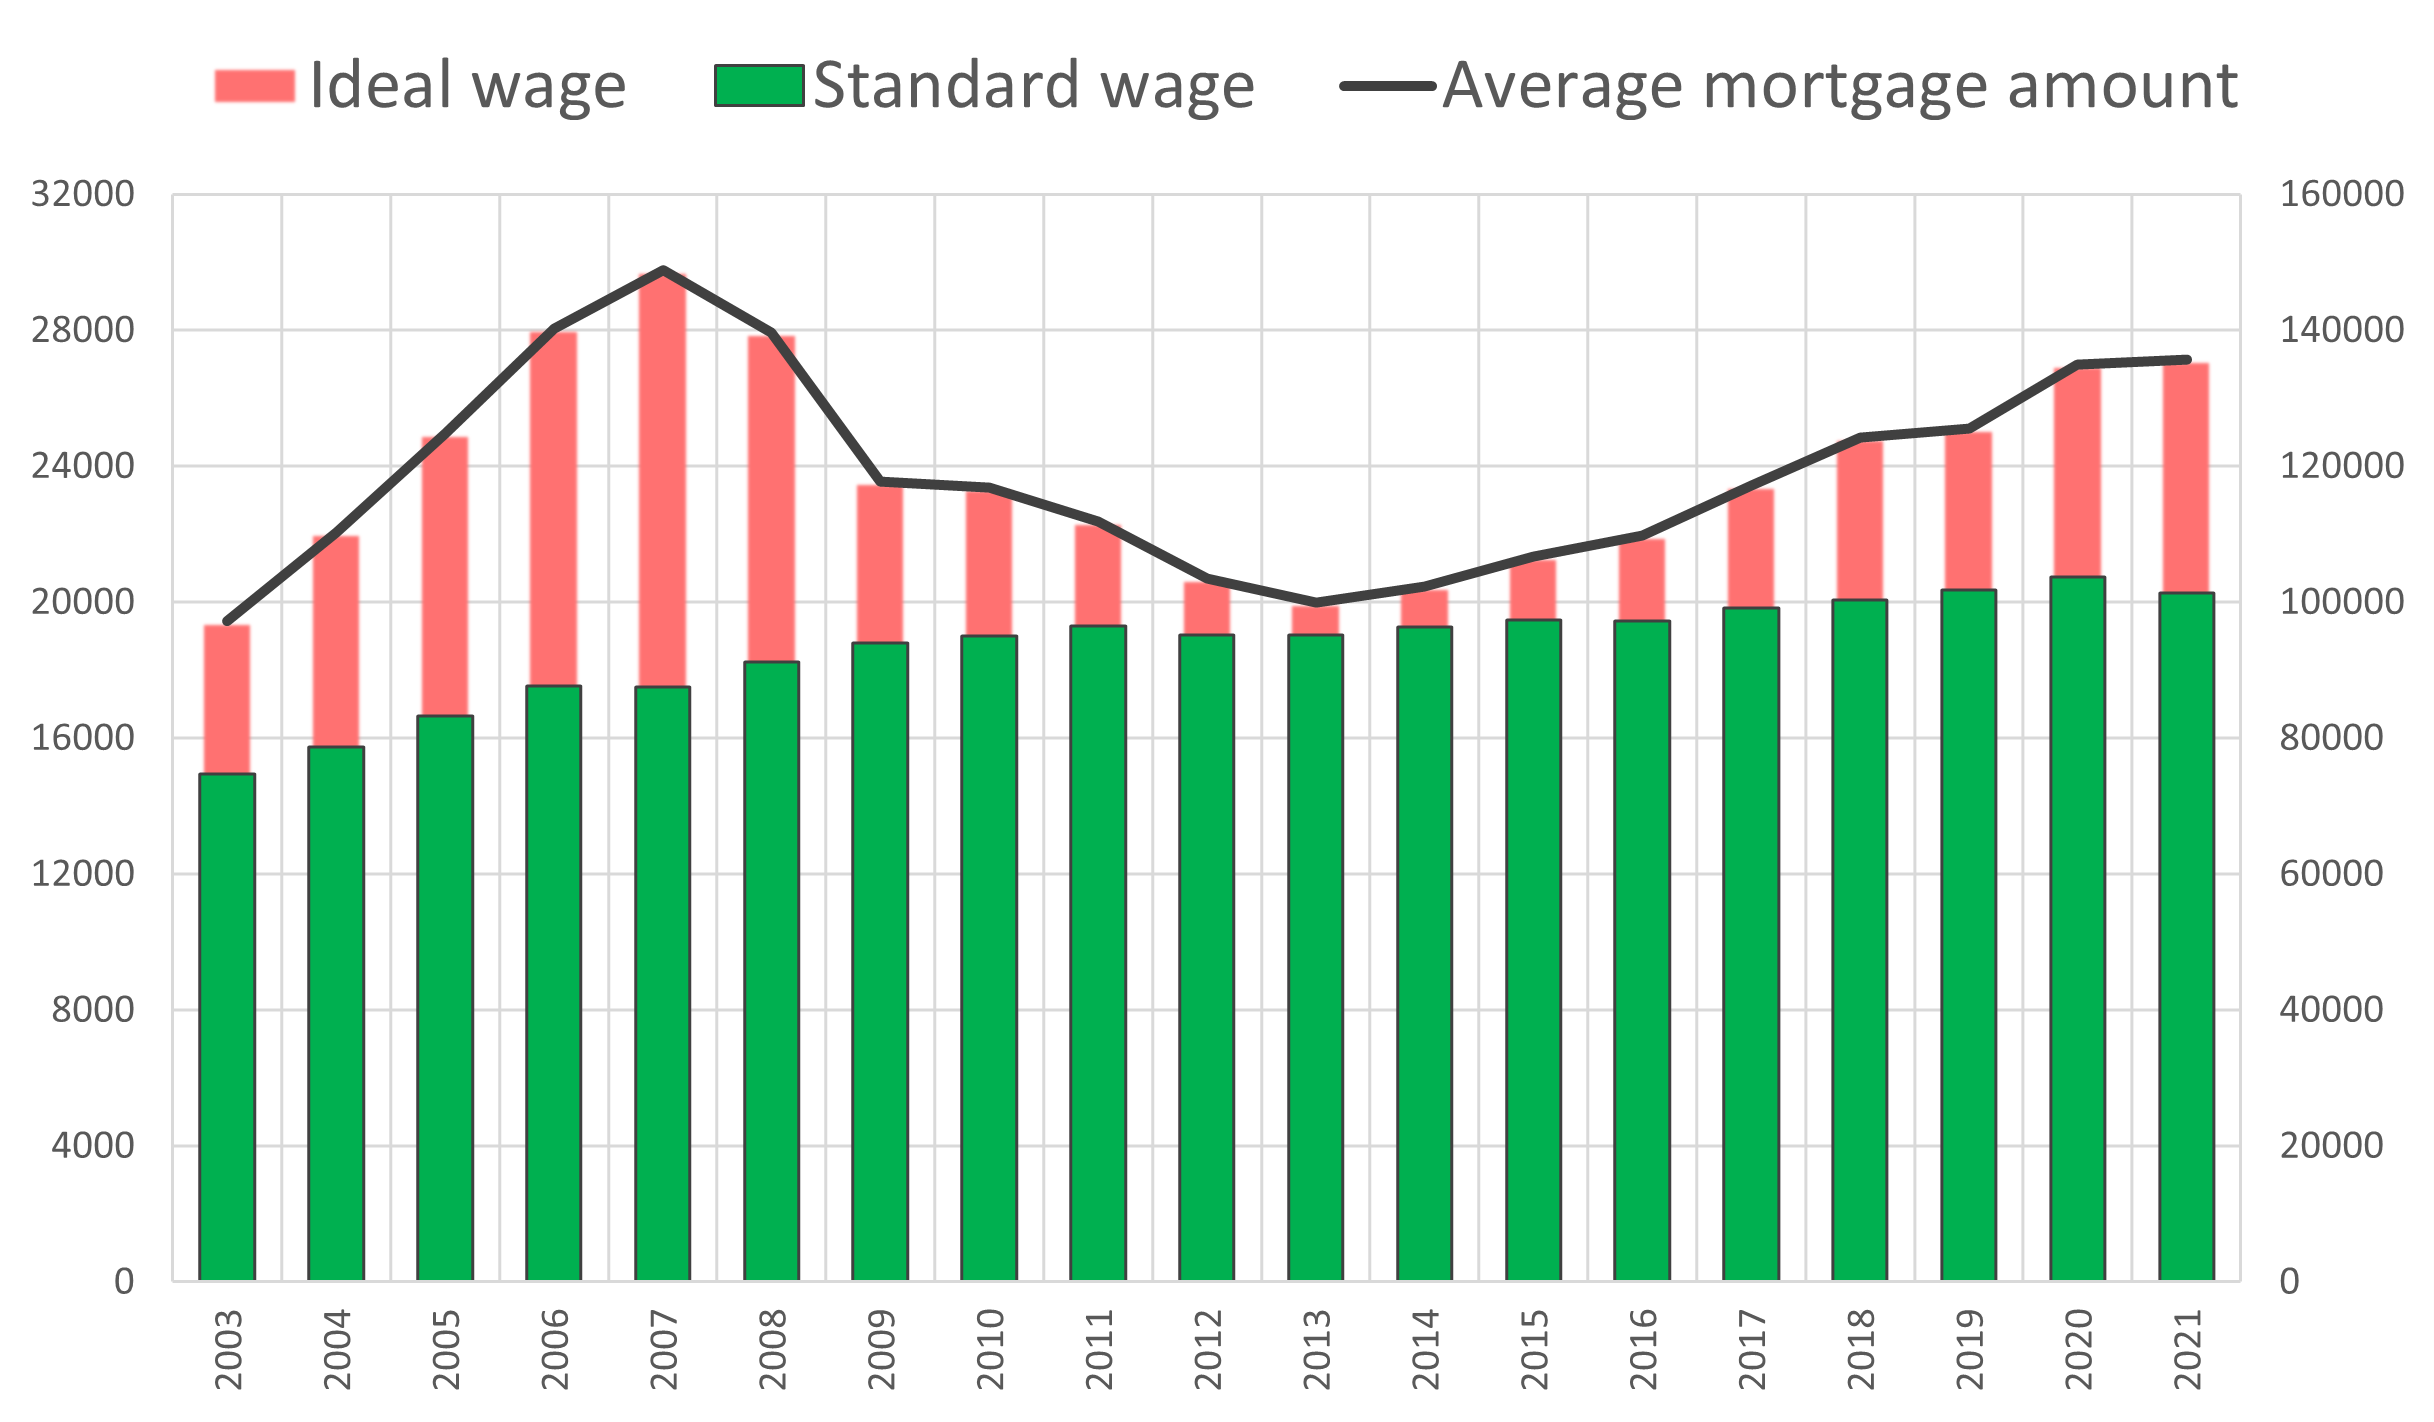
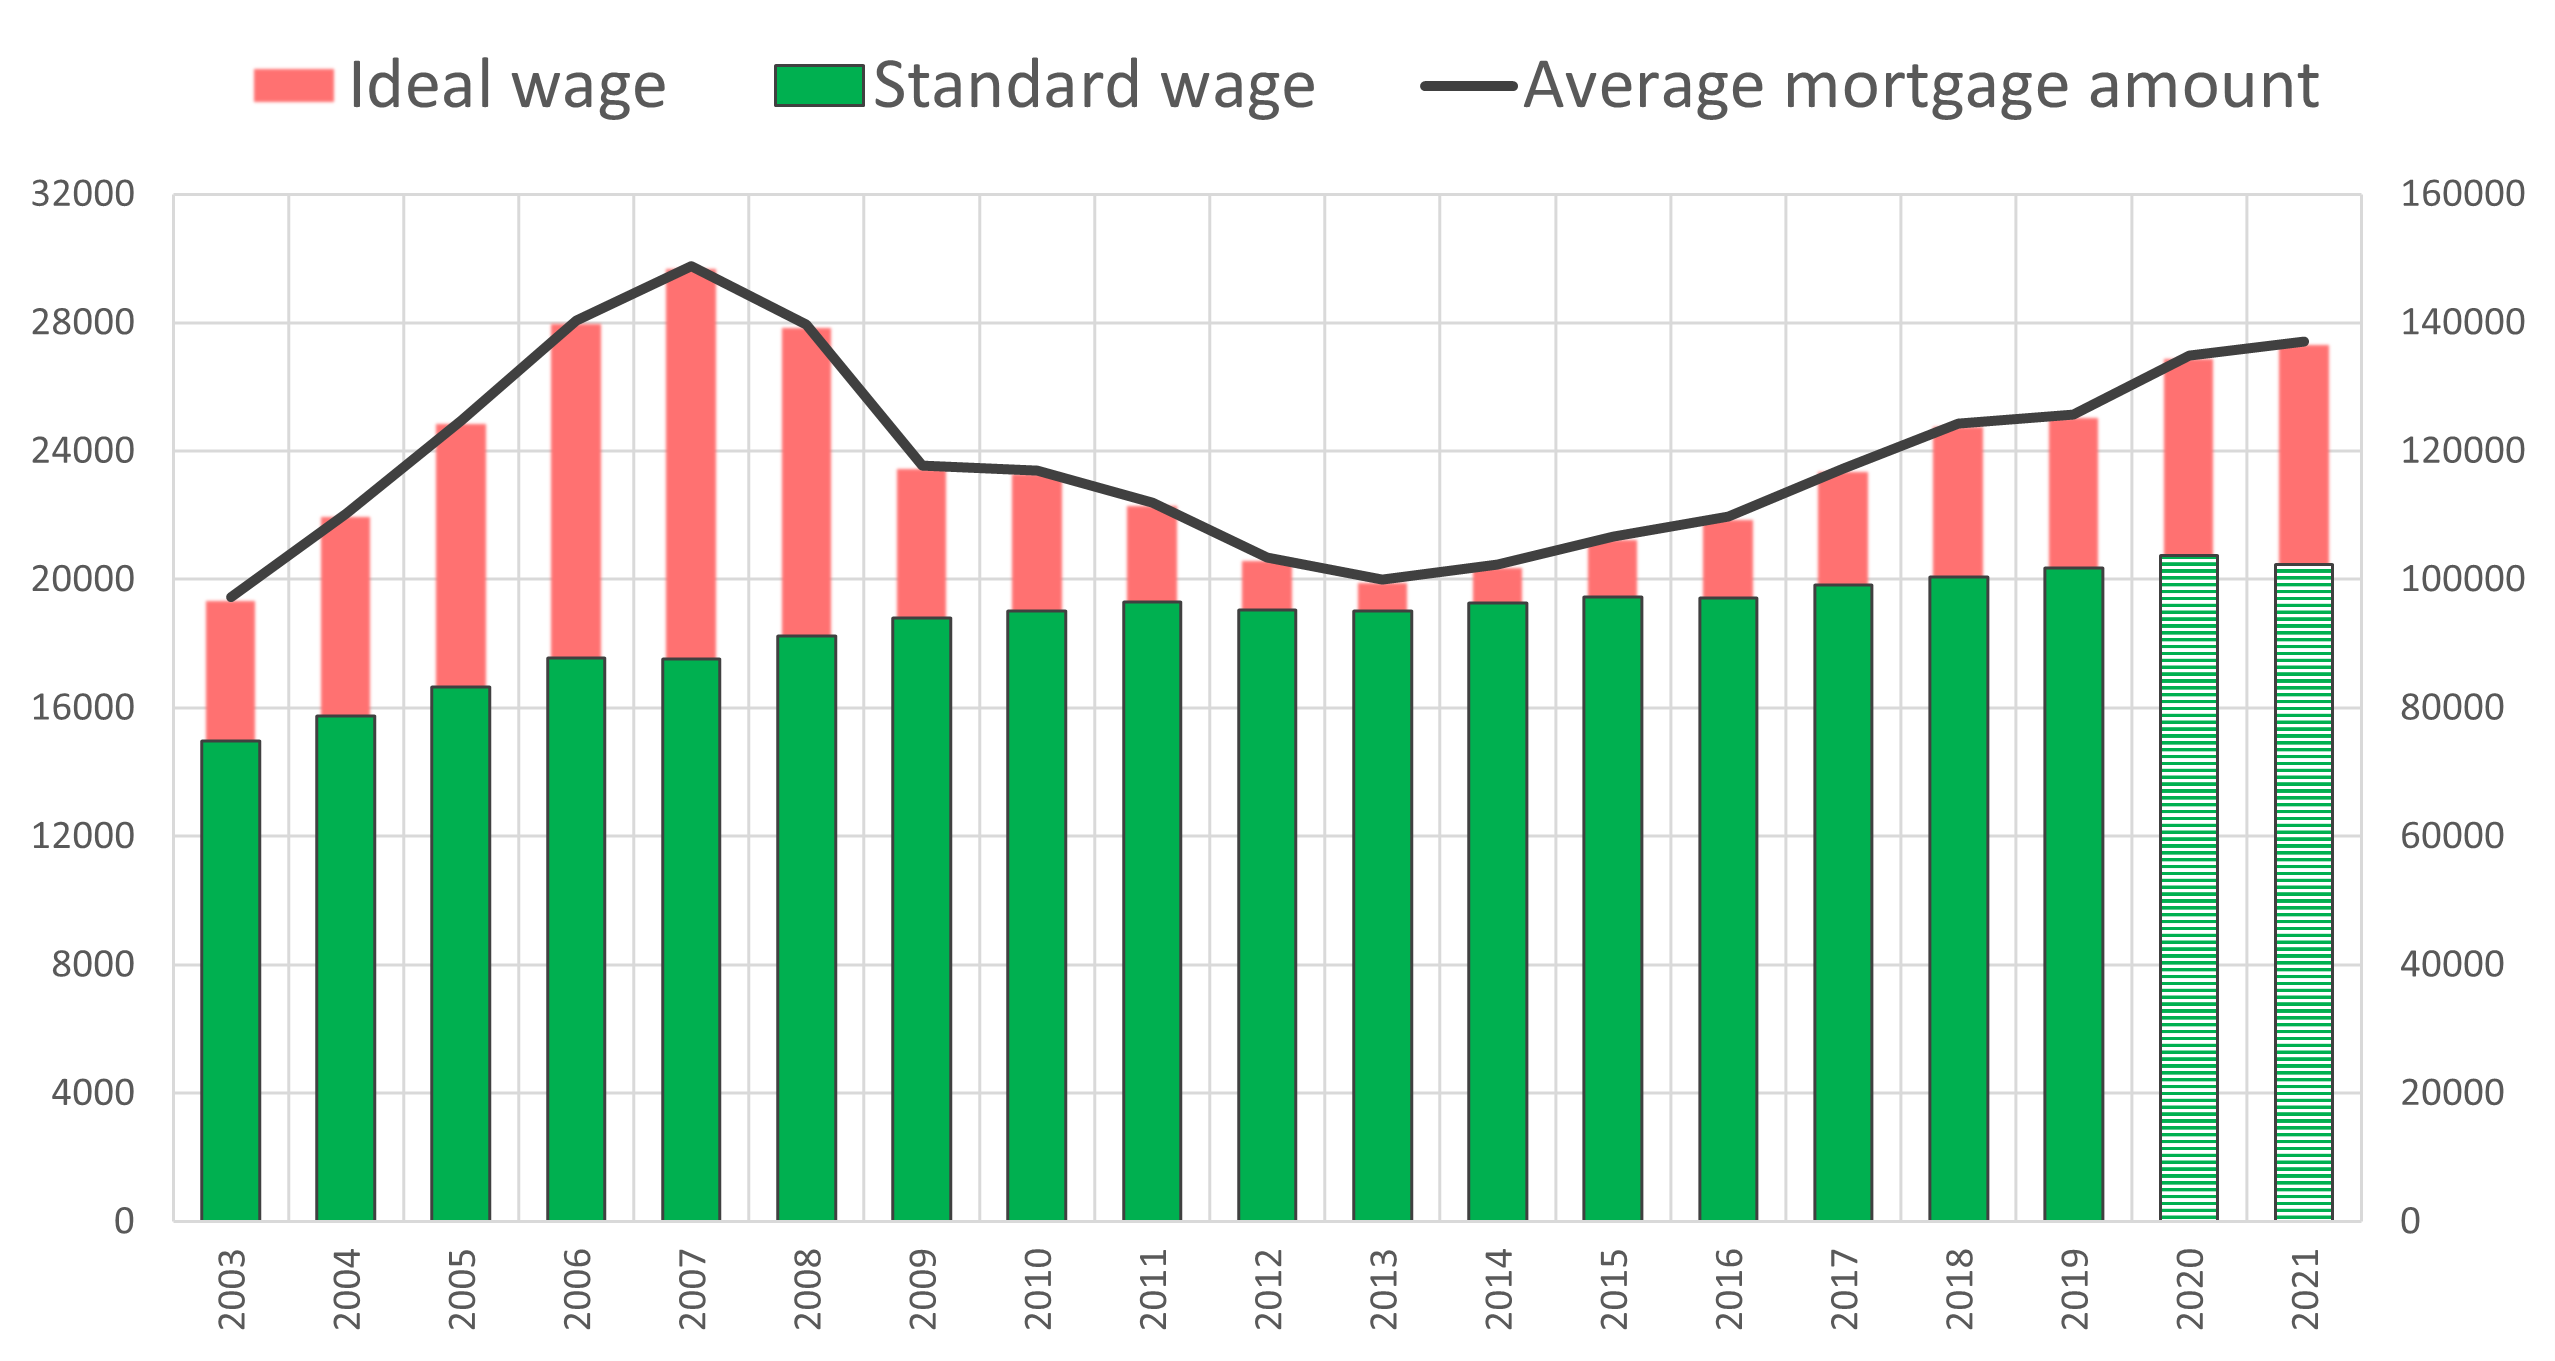
oip

diff --git a/pages/posts/wages.md b/pages/posts/wages.md
@@ -13,13 +13,13 @@ import Image from 'next/image'
 <Image
   src="/images/sou.png"
   alt="Reload chart"
-  width={2434}
-  height={1422}
+  width={2555}
+  height={1361}
   priority
   className="next-image"
 />
 
-- **Left axis (bars)**: wages, the standard wage represents the median of the salaries distribution in Spain, in euros.
+- **Left axis (bars)**: wages, the standard wage represents the median of the salaries distribution in Spain, in euros. Data for 2020 and 2021 are still pending official confirmation.
 - **Right axis (line)**: mortgages average amount in Spain, in euros.
 
 # Interpretation and observations
